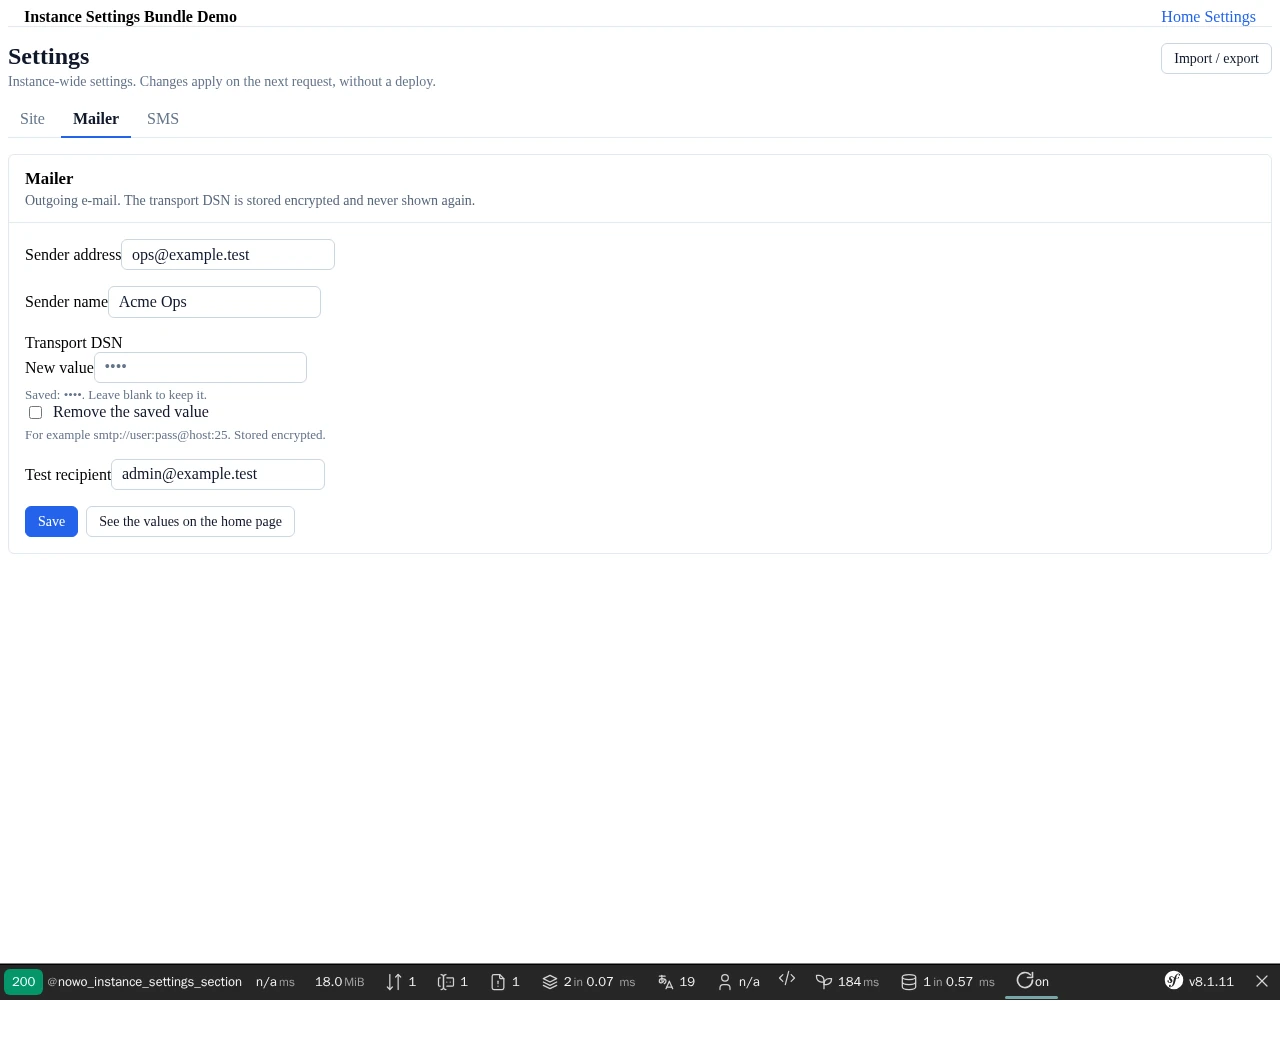
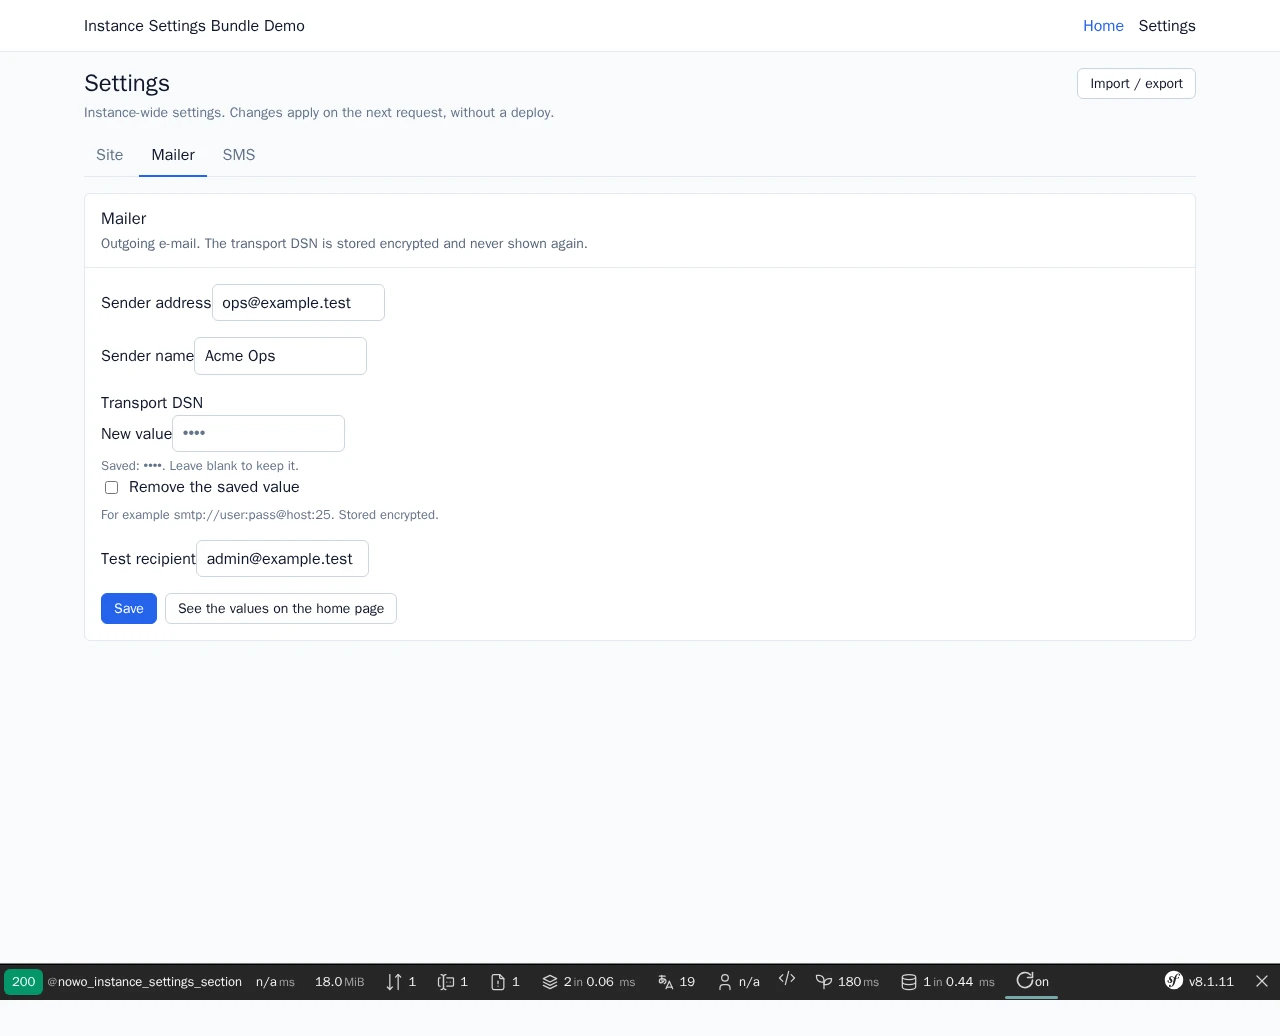
chore(docs): demo opts into UiKit base theme, masthead nav fixed, screenshots regenerated

Changed region(s): [[0.0, 0.0, 0.4688, 0.6178], [0.0, 0.8958, 1.0, 0.9884], [0.8438, 0.0, 1.0, 0.0927]]

diff --git a/demo/symfony8/config/reference.php b/demo/symfony8/config/reference.php
@@ -1327,6 +1327,7 @@ use Symfony\Component\Config\Loader\ParamConfigurator as Param;
  *             testid?: scalar|Param|null, // Default: null
  *         }>,
  *     },
+ *     base_stylesheet?: bool|Param, // 2.51: link UiKit's opt-in default theme (css/nowo-ui-base.css) before nowo-ui.css in the document / error layouts: body font stack, page gutters and masthead height for hosts that bring no CSS framework and no theme stylesheet. Its rules nest in `@layer theme.nowo-ui-base`, below `base`, so a framework, host utilities and unlayered host CSS still win. Leave it false when the host already has a framework or a theme file. // Default: false
  *     font_preload?: array{ // 2.21: <link rel="preload" as="font" crossorigin> tags printed in the <head> of the document and error layouts (Twig nowo_ui_font_preload()) for the fonts painted above the fold. Empty = no tags.
  *         fonts?: list<scalar|Param|null>,
  *         manifest?: array{ // Hashed builds: pick the fonts from a Vite manifest (.vite/manifest.json). A missing manifest (dev server) prints nothing.
@@ -1644,6 +1645,9 @@ use Symfony\Component\Config\Loader\ParamConfigurator as Param;
  *         layout_template?: scalar|Param|null, // Layout the pages extend. Null (default) = nowo_ui_kit.layouts.admin. // Default: null
  *         hidden_secrets?: "drop"|"keep_typed"|Param, // 1.9: a secret typed into a provider-dependent row hidden for the submitted provider: "drop" (default: ignored, only an explicit clear deletes) or "keep_typed" (saved whichever provider is selected; never required, its own constraints run). A section implementing SettingsSectionHiddenSecretsInterface overrides it. // Default: "drop"
  *         hidden_secrets_notice?: bool|Param, // 1.9: while hidden secrets are dropped, a section with provider-dependent secrets shows a notice above its form (translation key notice.hidden_secrets_dropped, NowoInstanceSettingsBundle domain). // Default: false
+ *         unlayered_styles?: bool|Param, // 1.13: the bundle stylesheet (colour input, image cards) sits in UiKit's cascade layer nowo-ui (default false: nowo-instance-settings.css, so host utilities and unlayered host CSS win). true links nowo-instance-settings.unlayered.css instead, for hosts that link UiKit's nowo-ui.unlayered.css. // Default: false
+ *         section_layout?: "stacked"|"tabs"|Param, // 1.14: how a section page lays out its field groups (SettingsSectionGroupsInterface, else the fields' form groups): "stacked" (default: one column, unchanged markup) or "tabs" (one UiKit subtab per group, ?settings_group=<code> in the URL; one form: Save saves every group). A section with fewer than two groups always renders stacked. SectionEmbedOptions::withSectionLayout() overrides it per embed. // Default: "stacked"
+ *         section_group_parameter?: scalar|Param|null, // 1.14 (audit MP-L1): query parameter of the open subtab with section_layout: tabs (default "settings_group", namespaced so a host page keeps its own ?group=). Letters, digits and underscores; SectionEmbedOptions::withGroupParameter() overrides it per embed. // Default: "settings_group"
  *         templates?: array<string, scalar|Param|null>,
  *     },
  *     security?: array{ // REQ-UI-002 private access of the admin UI.
@@ -1705,6 +1709,10 @@ use Symfony\Component\Config\Loader\ParamConfigurator as Param;
  *             square?: bool|Param, // Default: false
  *             default?: scalar|Param|null, // Default: null
  *         }>,
+ *         error_illustrations?: array{ // 1.13: UiKit error page illustrations from the uploaded brand extra images (service nowo_instance_settings.brand.error_illustration_provider, set it as nowo_ui_kit.error_pages.illustration_provider). For status N: the uploaded extra image error_<N>, else the uploaded base extra image, else UiKit's error_pages.illustrations map. Configured defaults never count. Needs files.store: filesystem.
+ *             base?: scalar|Param|null, // Id of the extra image used for every status without its own uploaded error_<N> image (e.g. mascot). Null = none. // Default: null
+ *             per_code?: bool|Param, // Use the uploaded extra images error_<N> (N = 400 to 599) for their status. // Default: true
+ *         },
  *     },
  * }
  * @psalm-type DebugConfig = array{

diff --git a/docs/CHANGELOG.md b/docs/CHANGELOG.md
@@ -33,6 +33,7 @@ All notable changes to this project are documented here. The format follows
 ### Changed
 
 - docs: demo screenshots regenerated on the UiKit base style
+- demo: opt into UiKit 2.51 `nowo_ui_kit.base_stylesheet`, use `nowo-ui-header__nav` for the masthead nav, screenshots regenerated with the themed shell
 
 ## [1.14.1] - 2026-11-13
 
